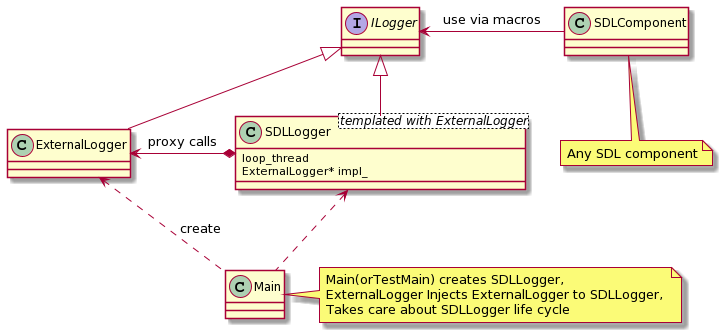
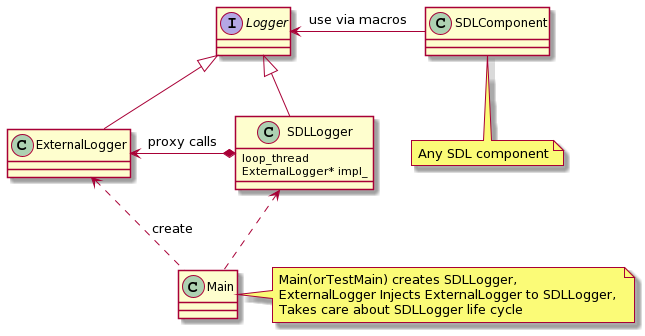
Update to implementation

diff --git a/docs/Developer Documentation/Logger/index.md b/docs/Developer Documentation/Logger/index.md
@@ -14,43 +14,45 @@ High Level Design
 
 All components have aceess to `Logger` interface and use it for logging.
 
-## SDLLogger
+## LoggerImpl
 
-`Logger` interface is implemented by `SDLLoggerImpl`. 
+`Logger` interface is implemented by `LoggerImpl`. 
 
-`SDLLoggerImpl` use message loop thread to proxy log messages to third party (external) logger.
-`SDLLoggerImpl` owns `ExternalLogger` and controls it's lifetime. 
-`SDLLoggerImpl` provides implementation of the singleton pattern.
+`LoggerImpl` use message loop thread to proxy log messages to third party (external) logger.
+`LoggerImpl` owns `ThirdPartyLoggerInterface` and controls it's lifetime. 
+`LoggerImpl` provides implementation of the singleton pattern.
 
 
 ### Message loop thread in SDLLogger
 
 Message loop thread is needed to avoid significant performance degradation in run time as logging calls are blocking calls and might take too much time. 
-`SDLLoggerImpl::PushLog` is non a blocking call. It will put the log message into the queue and returns immediately 
+`LoggerImpl::PushLog` is non a blocking call. It will put the log message into the queue and returns immediately 
 
 
-If `ExternalLogger` supports non blocking threaded logging, minor changes in `SDLLogger` are required : `SDLLoggerImpl::PushLog` should be reimplemented to 
-use `ExternalLogger::ForceLog()` directly. 
+If `ThirdPartyLoggerInterface` supports non blocking threaded logging, minor changes in `LoggerImpl` can be created with `use_message_loop_thread = false`. 
 
 ## Logger singleton 
 
 Logger is the only one singleton class in SDL.
 Singleton pattern required to have an access to logger from any component. 
-Logger singleton provides singleton by `Logger` interface. 
-So sdl components do not have information about neither logger implementation nor specific external logger. 
+`Logger::instance()` provides singleton by `Logger` interface.
+So SDL components do not have information about neither logger implementation nor specific external logger. 
 
 ## Logger singleton with plugins 
 
 SDL plugins are shared libraries, so `LoggerSingleton` could not be implemented with Mayers singleton. 
-Mayers singleton would create own SDL logger instance.
+Mayers singleton would create own SDL logger instance for each plugin.
 
 The idea is to pass singleton pointer to Plugin during creation, so that plugin could initialize `Logger::instance` pointer with one received from SDL core. 
 
 
-Instance implementation : 
+Singleton Instance implementation : 
 ```cpp
+// ilogger.h
 static Logger& instance(Logger* pre_init = nullptr);
 
+...
+// logger_impl.cc
 Logger& Logger::instance(Logger* pre_init) {
   static Logger* instance_ = nullptr;
   if (pre_init) {
@@ -73,15 +75,14 @@ extern "C" PluginType* Create(Logger* logger_singleton_instance) {
 }
 ```
 
-SDL Core part will give pointer to logger singleton to the plugin so that plugin shared lib could initialize `Logger::instance` with the same pointer as core part. 
+SDL Core part will pass pointer to logger singleton to the plugin so that plugin shared lib could initialize `Logger::instance` with the same pointer as core part. 
 
 ## Logger detailed design :
 
-Each component creates `logger_` variable via macro. 
+Each source file creates `logger_` variable via macro `SDL_CREATE_LOG_VARIABLE`. 
 This variable is actually a string with component name of the logger.
-Some logger implementations (like log4cxx) may have separate suverity or destanation  rules for each component. 
+Some logger implementations (like log4cxx) may have separate suverity or destanation rules for each component. 
 
-Logger macroses used to create such variable in each source file where logging is required.
 
 SDL implements all info required for log message :
 
@@ -101,28 +102,26 @@ Detailed Design
 Logger macroses use Logger interface for sending messages to External Logger. 
 Logger interface contains only methods required by any SDL component to perform logging : 
 
+ * instance() - singleton access
  * PushLog(LogMessage)
  * IsEnabledFor(LogLevel)
- * Enabled()
- * instance() - singleton
+ * DeInit()
+ * Flush() 
 
 
 ### LoggerInitializer interface 
 
-LoggerInitializer specify interface required for Main to init/deinit logger but not required for any other SDL components
-LoggerInitializer should be templated with paticular ExternalLogger implementation
+LoggerInitializer specify interface required for Main to init logger but not required for any other SDL components
 
-It contains : 
- - Init(ExternalLogger* external_logger)
- - DeInit()
+LoggerInitializer should take and own the third party implementation into `Init` method. 
+ - Init(std::unique_ptr<ThirdPartyLoggerInterface>&& third_party)
 
-Init and DeInit should perform internal initialization/deinitializetion and be proxied to ExternalLogger
 
 ### ThirdPartyLogger interface
 
-ThirdPartyLogger interface extends Logger Interface with Initialization and deinitialization methods
+ThirdPartyLogger interface describes interfaces that should be implemented by external logger adapter. 
 
-This interface should be inherited by particular external logger implementation 
+This interface should be inherited by particular external logger implementation. 
 
 
 ## Another logger implementation. 
@@ -132,7 +131,6 @@ To use another (not log4cxx) logger, you should implement ThirdPartyLoggerInterf
 
 ```cpp
 AnotherOneLoggerImpl : ThirdPartyLoggerInterface {
-  void SomeCustomMethod(parameters);
   void Init() override;
   void DeInit() override;
   void Enable() override;
@@ -140,20 +138,23 @@ AnotherOneLoggerImpl : ThirdPartyLoggerInterface {
   void Disable() override;
   void Flush() override;
   void PushLog(const LogMessage& log_message) override;
+
+  void SomeCustomMethod(parameters);
 }
 ```
 
-Then you should create `AnotherOneLoggerImpl` in main and setup it for `SDLLoggerImpl` :
+Then you should create `AnotherOneLoggerImpl` in main and setup it for `LoggerImpl`.
+Note that `Logger::instance` does not own logger instance. `main` function is reponsible for `sdl_logger_instance_` lifecycle.
+
 ```cpp
 // main.cpp
 int main(argc, argv) {
 	auto external_logger_ = std::make_unique<AnotherOneLoggerImpl>();
 	external_logger_->SomeCustomMethod(argv);
-	auto sdl_logger_instance_ = std::make_unique<SDLLoggerImpl<AnotherOneLoggerImpl>>();
+	auto sdl_logger_instance_ = new LoggerImpl(external_logger_);
 	sdl_logger_instance_->Init(std::move(external_logger_));
-	Logger::instance(std::move(sdl_logger_instance_));  
-
-	// Any other application code
+	Logger::instance(sdl_logger_instance_);  
+	// Futher application code
 }
 
 ```
